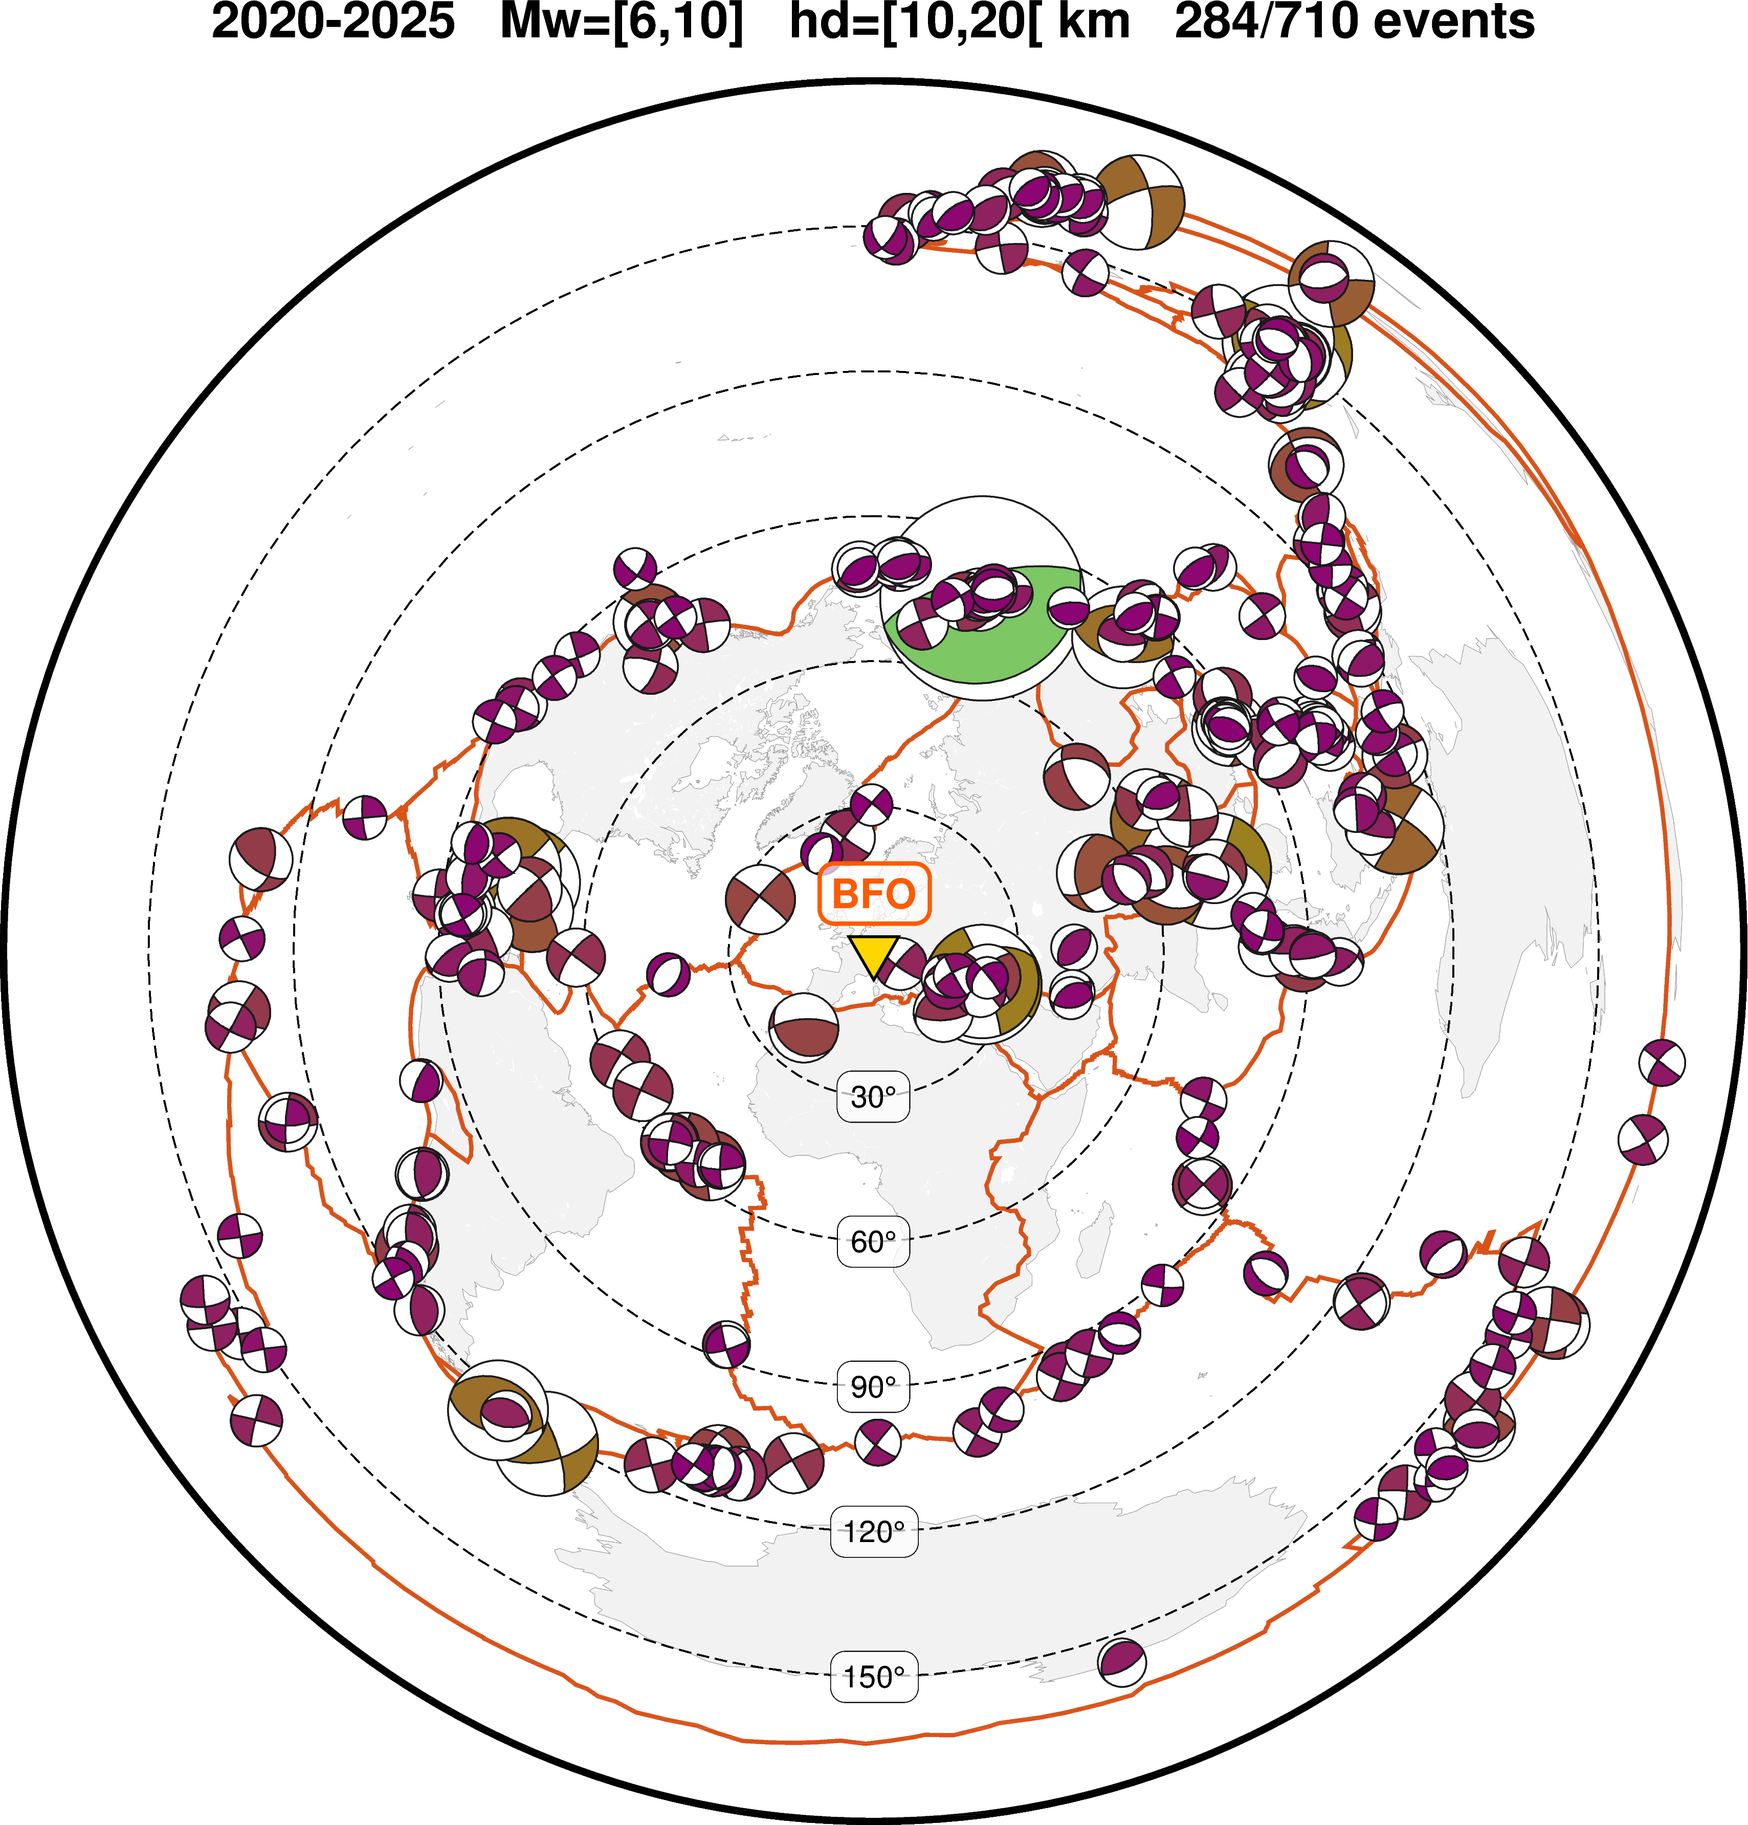
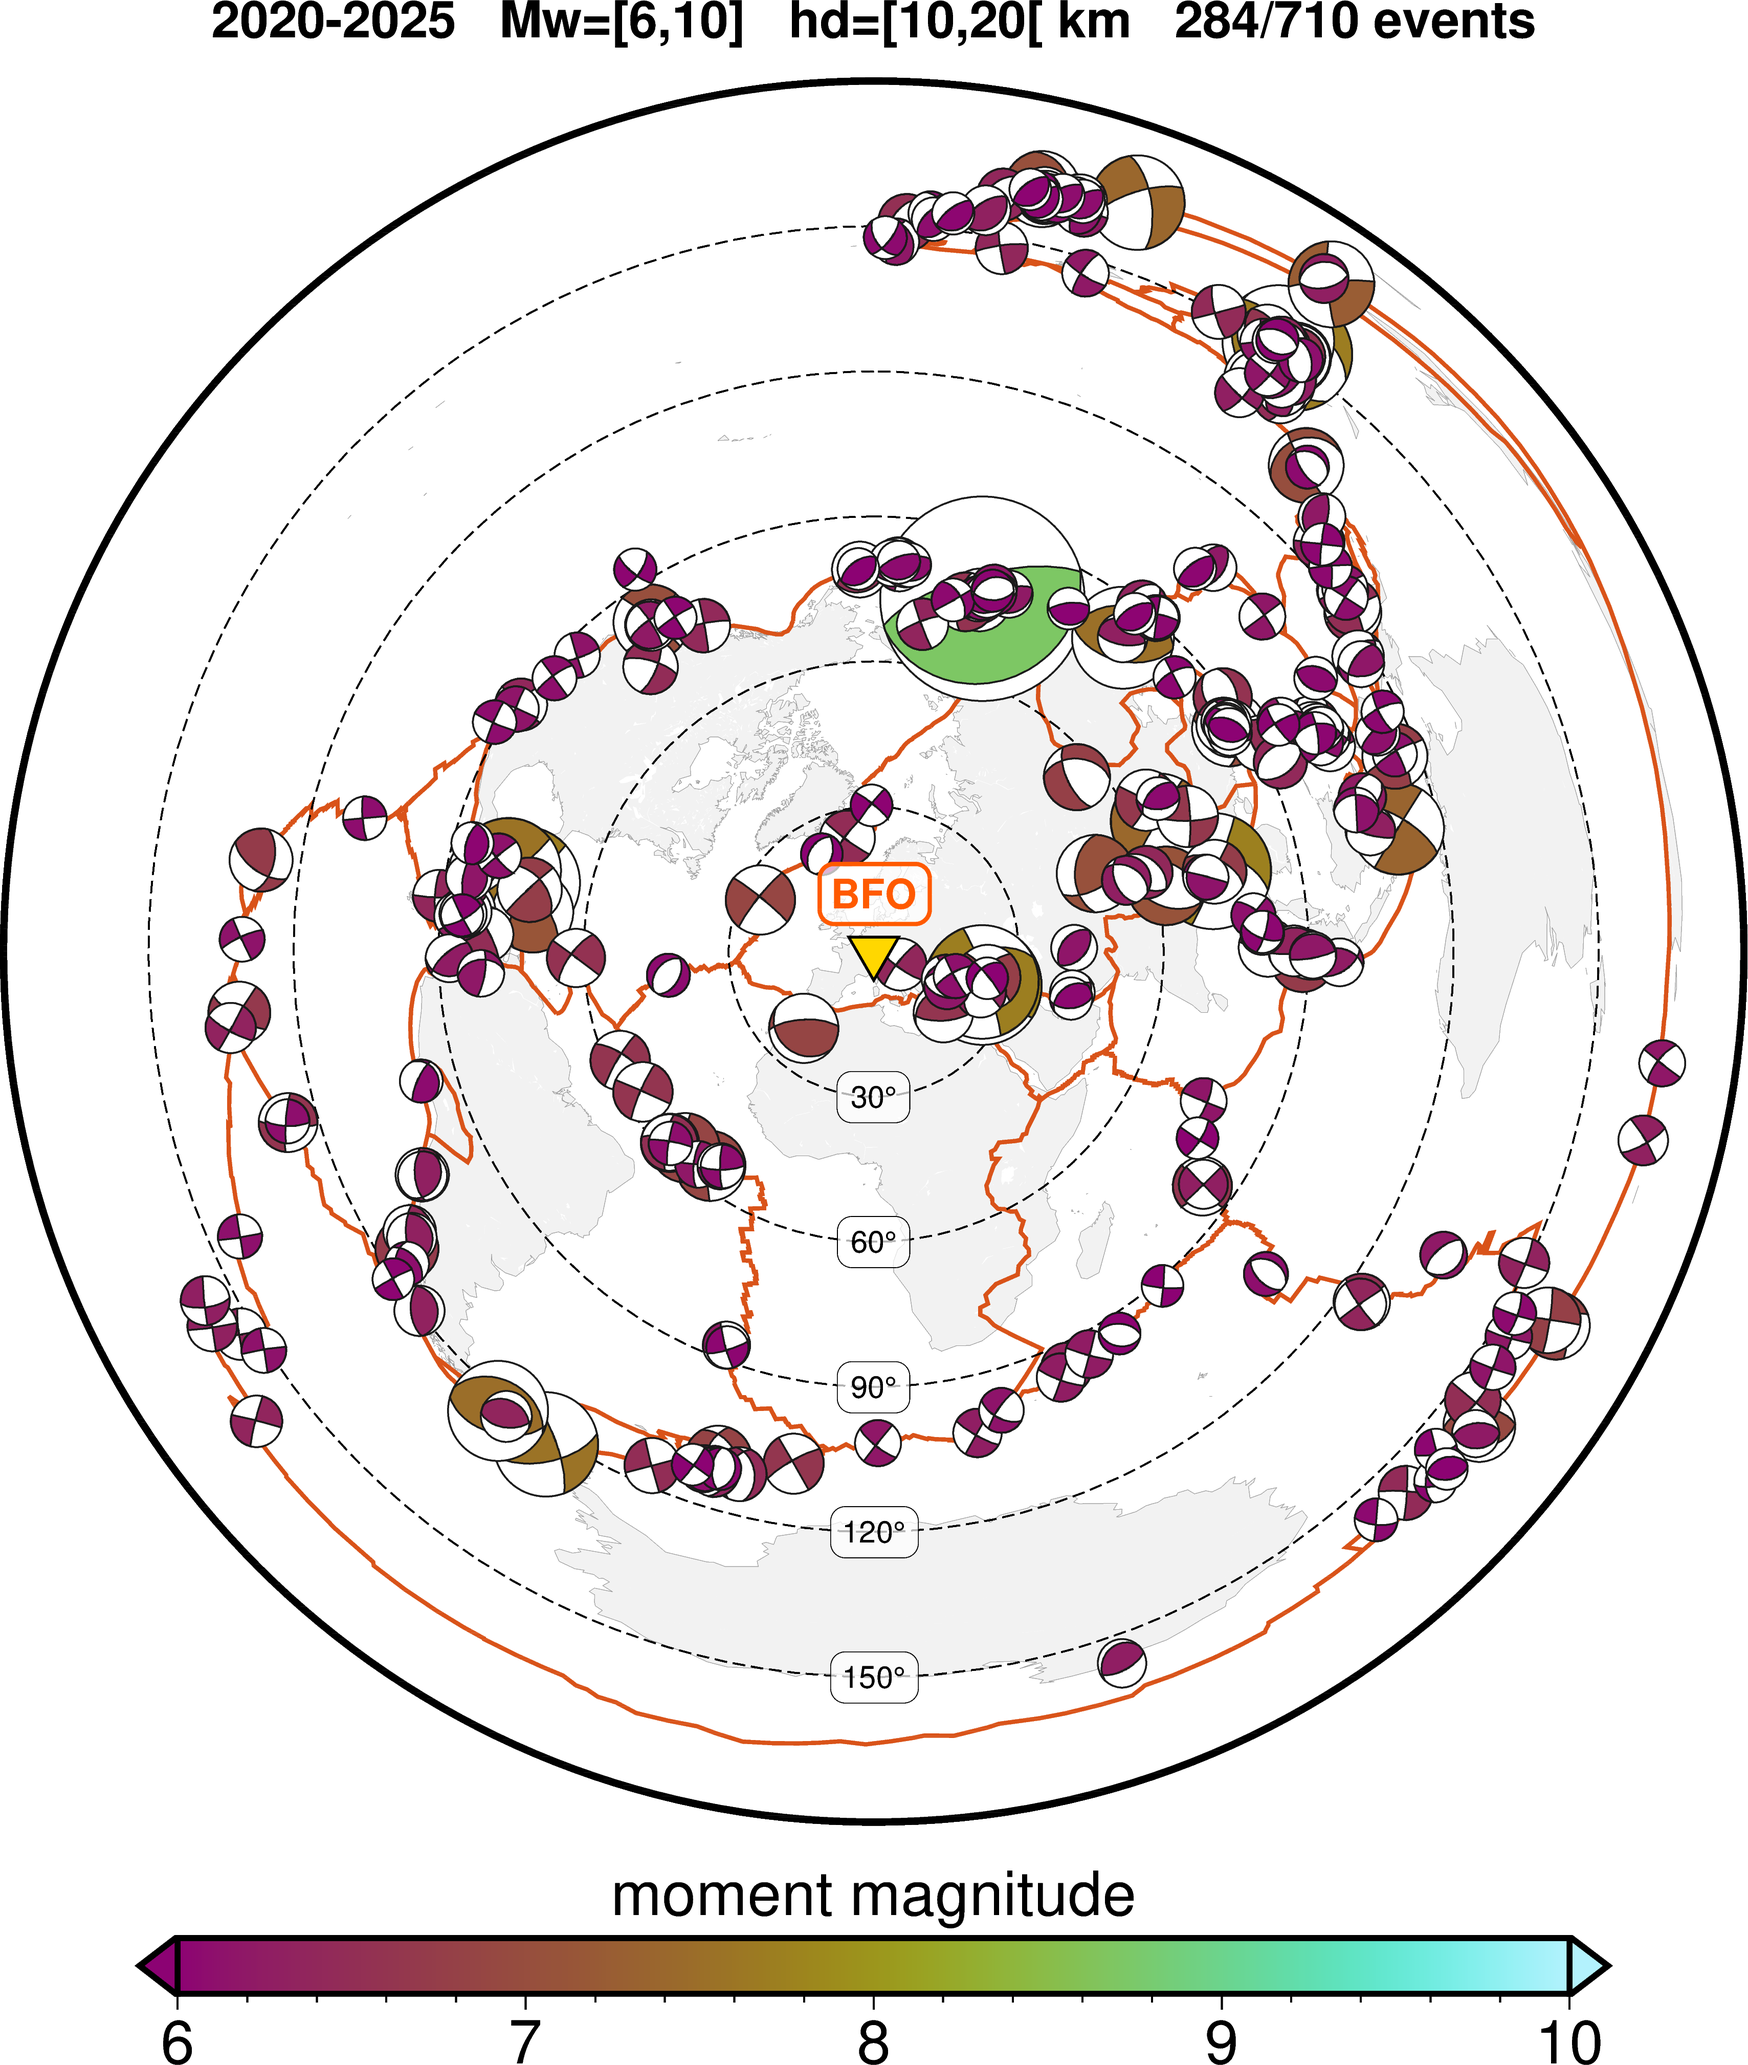
Update images

diff --git a/005_global_seismicity/seismicity_04_harvard_cmt.py b/005_global_seismicity/seismicity_04_harvard_cmt.py
@@ -33,7 +33,7 @@ import pygmt as gmt
 # Figure.meca always uses the "depth" column for color-coding
 # "depth" | "dis" | "magnitude" | "strike" | "dip" | "rake"
 # "fault" | "xks"
-status_color = "fault"
+status_color = "magnitude"
 
 # Time window
 year_min = 2020  # since 1976
@@ -312,11 +312,11 @@ for depth_min, depth_max in zip([0, 10, 20, 30, 50, 100], [10, 20, 30, 50, 100, 
                         spec=df_eq_used, scale="12c", cmap=True, outline="0.3p,gray10"
                     )
                 with gmt.config(FONT="15p"):
-                    # if fig == fig_single:
-                    #     fig_single.colorbar(frame=cmap_label, position="+e0.25c")
+                    if fig == fig_single:
+                        fig_single.colorbar(frame=cmap_label, position="+o0c/0.8c+e0.25c+ml")
                     # Add colorbar only once for merge figure
                     if fig == fig_merge and depth_min == 50:
-                        fig_merge.colorbar(frame=cmap_label, position="+e0.25c")
+                        fig_merge.colorbar(frame=cmap_label, position="+e0.25c+ml")
 
         # Mark center of the map as recording station
         fig.plot(style="i0.4c", fill=color_sta, pen="0.5p,black", **center_coord)
